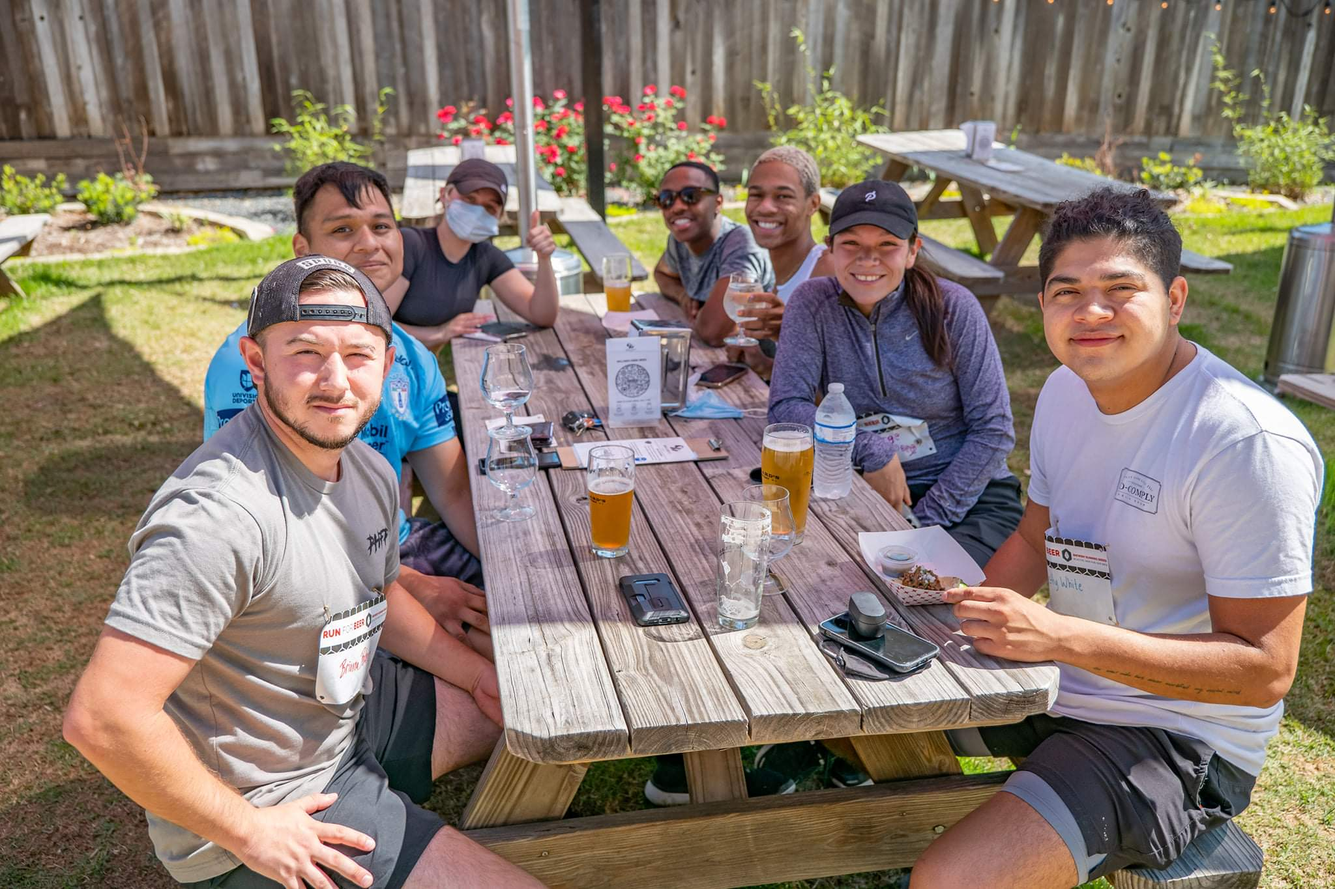
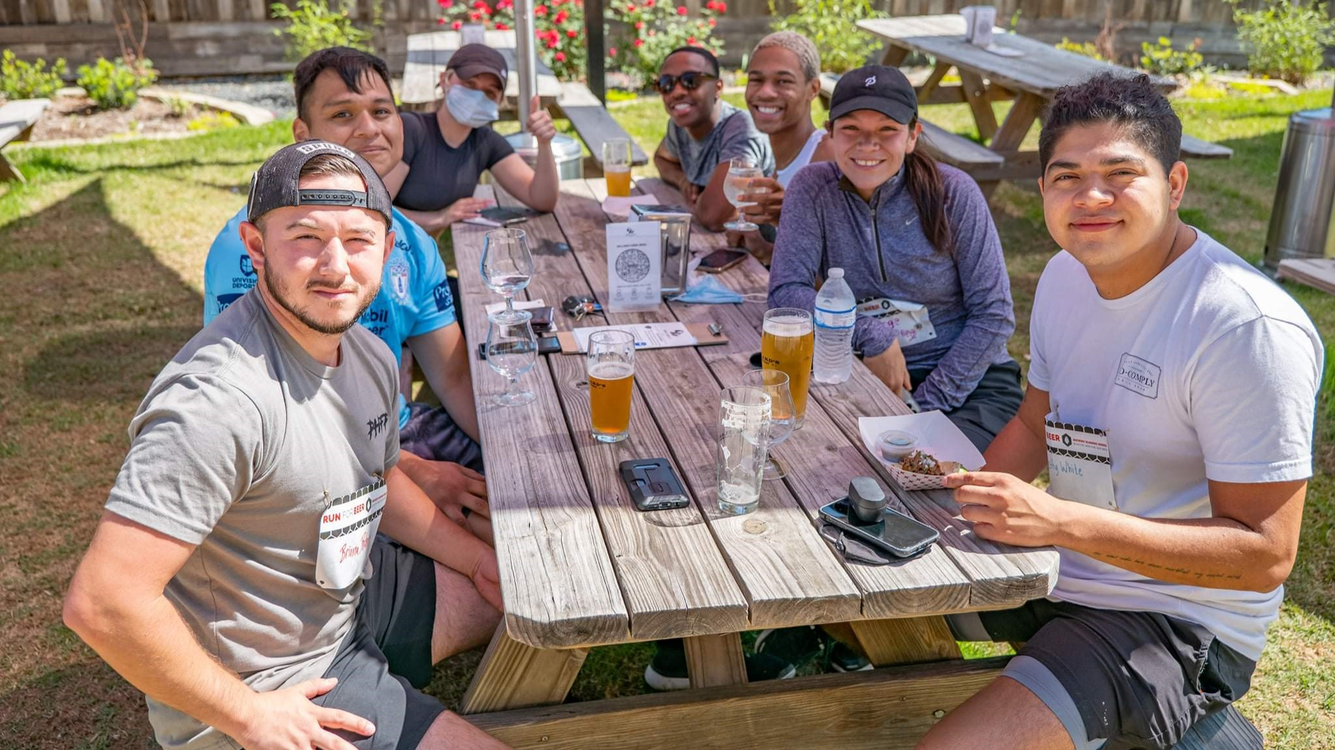
Corrected the images by setting 9x16 crops.

diff --git a/aboutme.html b/aboutme.html
@@ -52,25 +52,25 @@
 								<div id="photCarousel" class="carousel slide carousel-fade" data-bs-ride="carousel">
 									<div class="carousel-inner">
 									  <div class="carousel-item active ">
-										<img src="images/Portfolio_Photos/Lake_Austin.jpeg" class="d-block h-100 w-100">
+										<img src="images/Portfolio_Photos/Lake_Austin.jpg" style="width: 100%; height: 100%;" class="d-block">
+									  </div>									  
+									  <div class="carousel-item">
+										<img src="images/Portfolio_Photos/Peloton5K.jpg" style="width: 100%; height: 100%; " class="d-block">
+									  </div>									  
+									  <div class="carousel-item">
+										<img src="images/Portfolio_Photos/Peloton_June19th.jpg" style="width: 100%; height: 100%;" class="d-block">
 									  </div>
 									  <div class="carousel-item">
-										<img src="images/Portfolio_Photos/Burroughs.jpg" class="d-block h-100 w-100">
+										<img src="images/Portfolio_Photos/Burroughs_Park.jpg" style="width: 100%; height: 100%;" class="d-block">
 									  </div>
 									  <div class="carousel-item">
-										<img src="images/Portfolio_Photos/SATX_BCreek.jpg" class="d-block h-100 w-100">
+										<img src="images/Portfolio_Photos/Burroughs.jpg" style="width: 100%; height: 100%;" class="d-block">
 									  </div>
 									  <div class="carousel-item">
-										<img src="images/Portfolio_Photos/Peloton5K.jpg" class="d-block h-100 w-100">
+										<img src="images/Portfolio_Photos/SATX_BCreek.jpg" style="width: 100%; height: 100%;" class="d-block">
 									  </div>
 									  <div class="carousel-item">
-										<img src="images/Portfolio_Photos/Burroughs_Park.jpg" class="d-block h-100 w-100">
-									  </div>
-									  <div class="carousel-item">
-										<img src="images/Portfolio_Photos/Peloton_June19th.jpg" class="d-block h-100 w-100">
-									  </div>
-									  <div class="carousel-item">
-										<img src="images/Portfolio_Photos/Tomball_Leaving_Burroughs.jpg" class="d-block h-100 w-100">
+										<img src="images/Portfolio_Photos/SATX_Hiking.jpg" style="width: 100%; height: 100%;" class="d-block">
 									  </div>
 									  <button class="carousel-control-prev" type="button" data-bs-target="#photCarousel" data-bs-slide="prev">
 										<span class="carousel-control-prev-icon" aria-hidden="true"></span>

diff --git a/assets/css/main.css b/assets/css/main.css
@@ -1,11 +1,6 @@
 @import url(fontawesome-all.min.css);
 @import url("https://fonts.googleapis.com/css?family=Merriweather:300,700,300italic,700italic|Source+Sans+Pro:900");
 
-/*
-	Massively by HTML5 UP
-	html5up.net | @ajlkn
-	Free for personal and commercial use under the CCA 3.0 license (html5up.net/license)
-*/
 
 html, body, div, span, applet, object,
 iframe, h1, h2, h3, h4, h5, h6, p, blockquote,
@@ -32,11 +27,10 @@ footer, header, hgroup, menu, nav, section {
 body {
 	line-height: 1;
 }
-.carousel-inner div {
-    height: 400px;
-    object-fit: cover;
-
-}
+.carousel-item img {
+	margin: 0 auto; /* this will align the image to center. */
+	width: auto; /* for those images which don't have a width specified, but has a max-height will be auto adjusted */
+  }
 
 ol, ul {
 	list-style: none;

diff --git a/assets/js/main.js b/assets/js/main.js
@@ -1,8 +1,4 @@
-/*
-	Massively by HTML5 UP
-	html5up.net | @ajlkn
-	Free for personal and commercial use under the CCA 3.0 license (html5up.net/license)
-*/
+
 
 (function($) {
 
